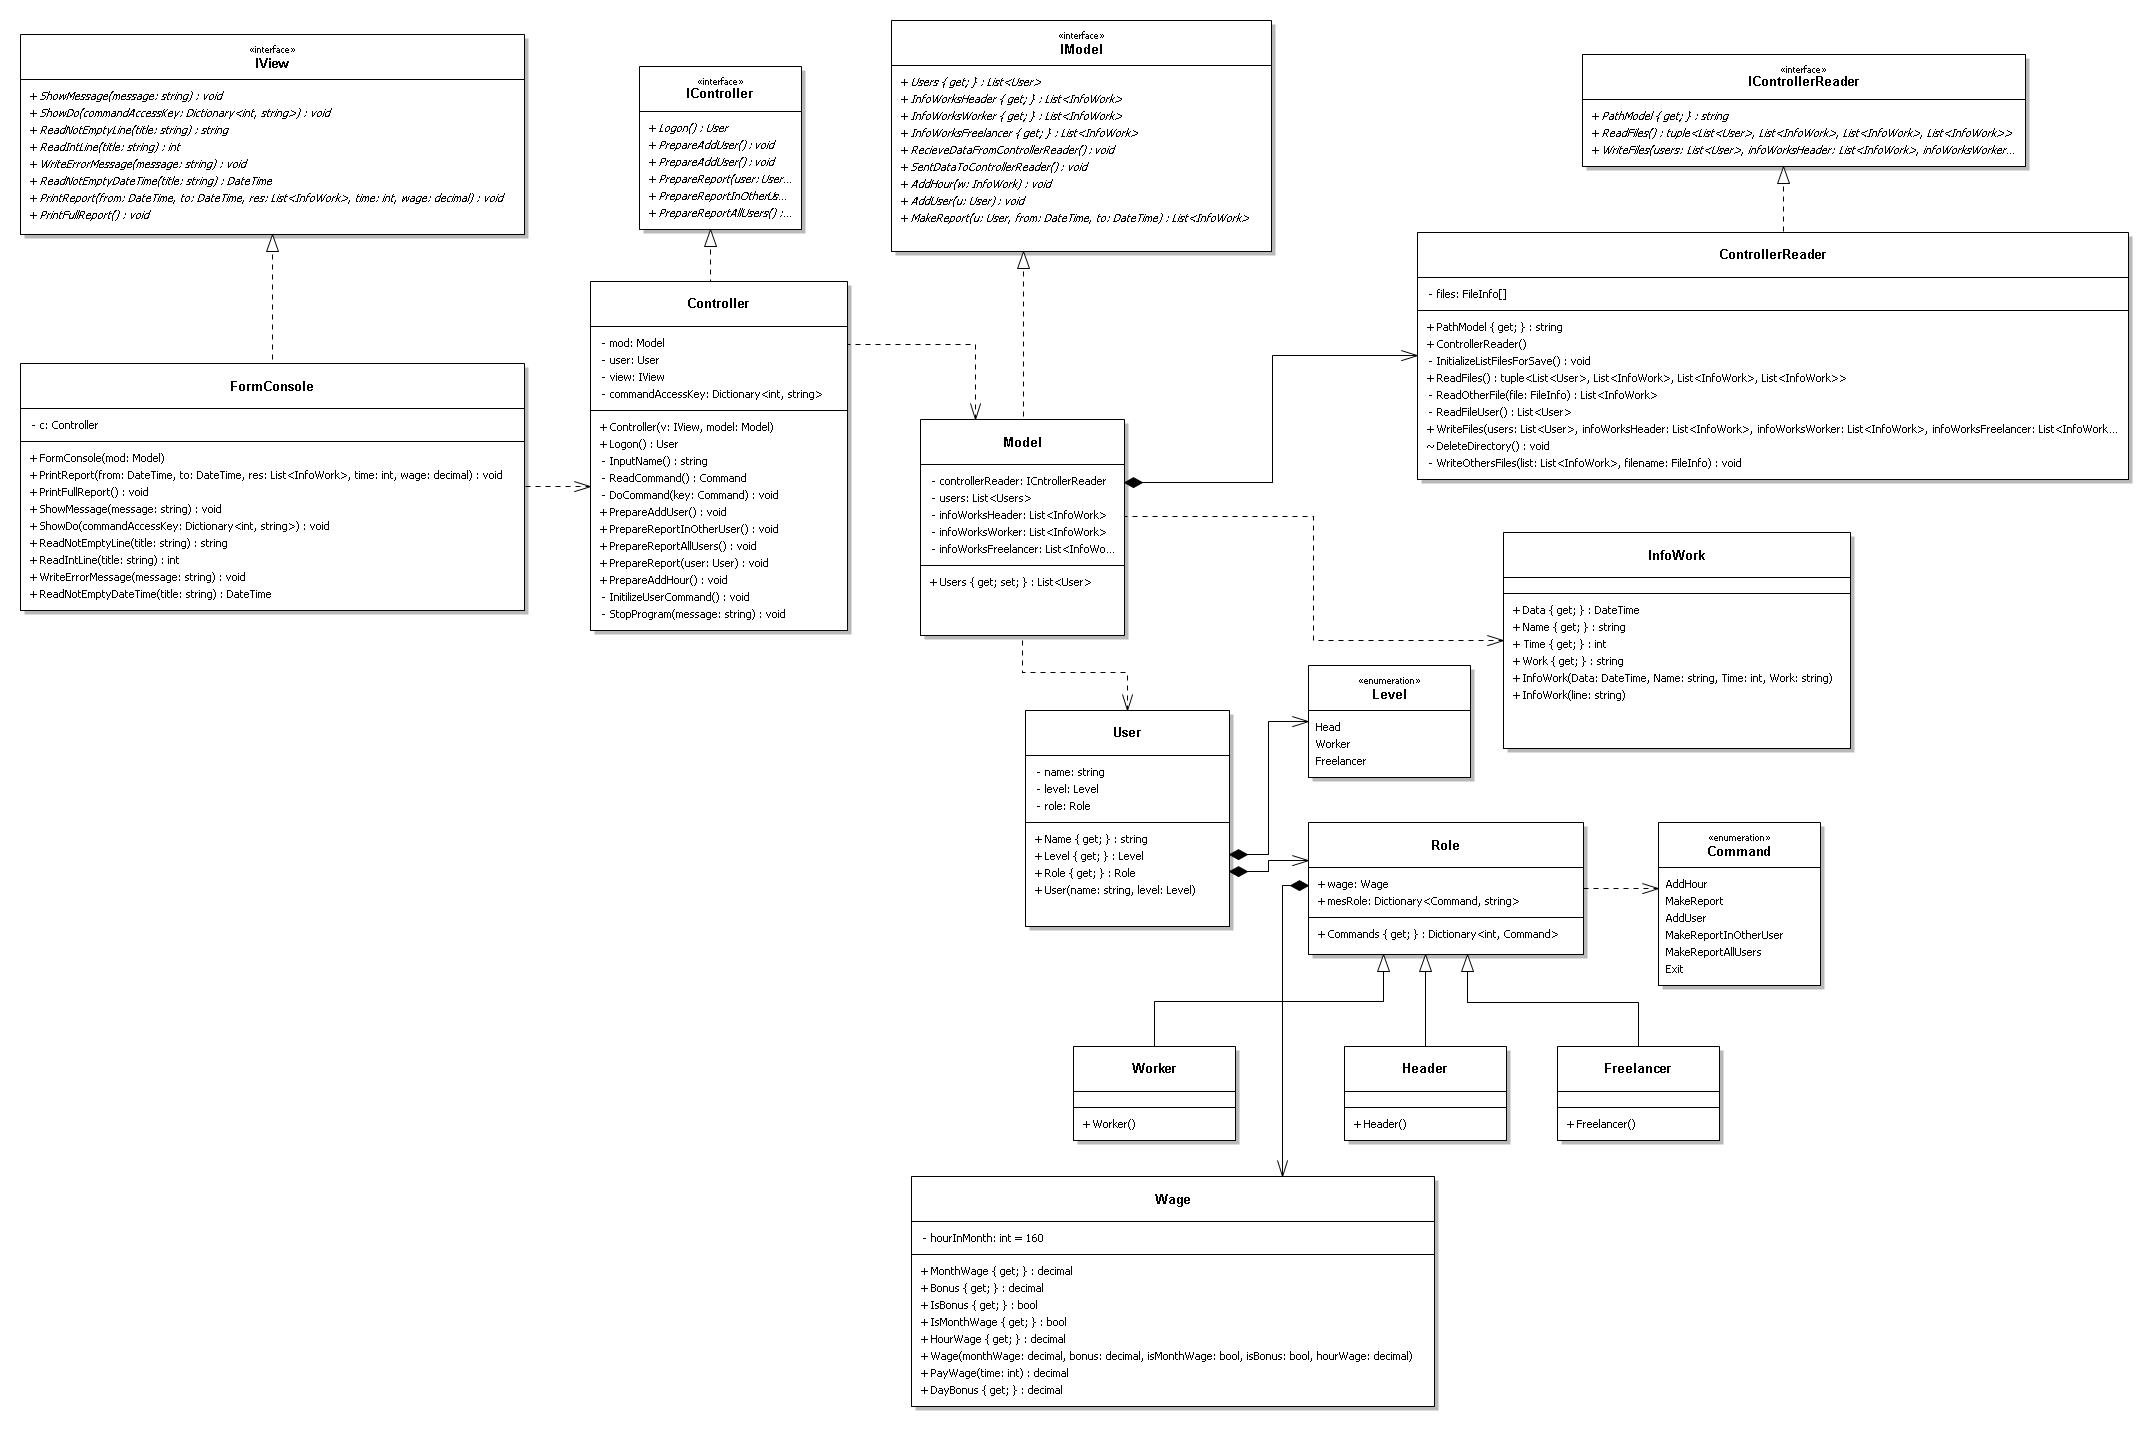
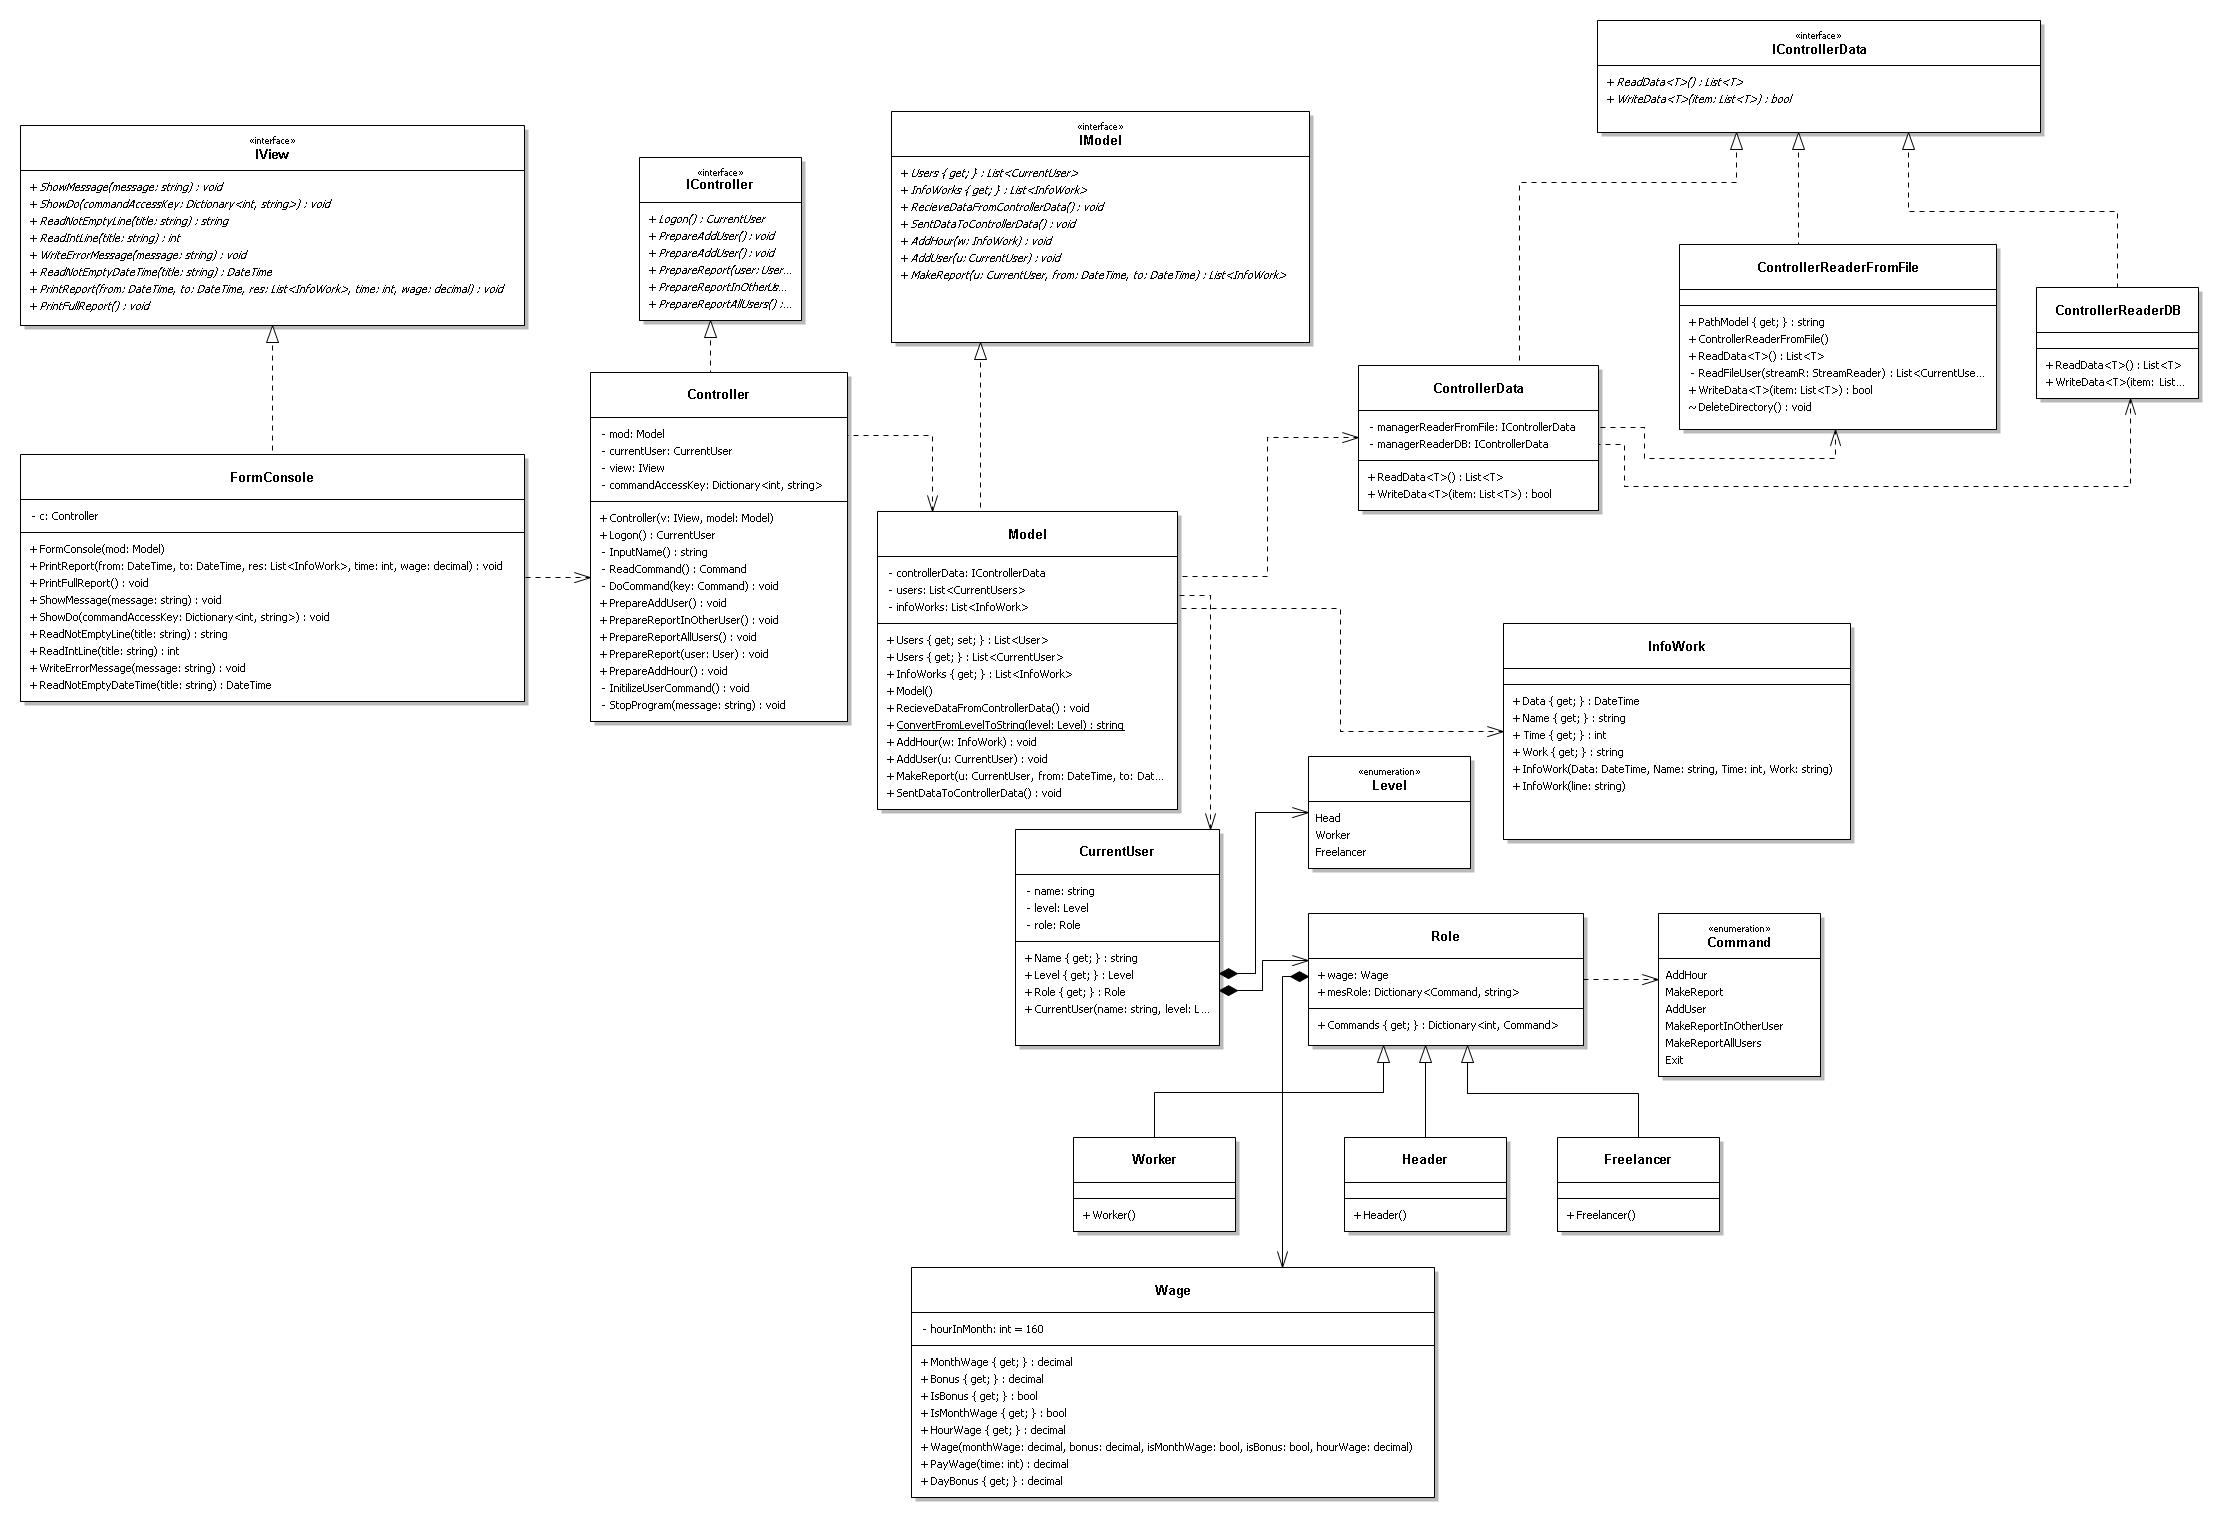
add actual description

diff --git a/Persistance/Controllers/ControllerData.cs b/Persistance/Controllers/ControllerData.cs
@@ -17,11 +17,14 @@ namespace wageсalculation.Persistance.Controllers
         {
             var dataFromFile = managerReaderFromFile.ReadData<T>();
             var dataFromDB = managerReaderDB.ReadData<T>();
-            if (dataFromFile.Count == dataFromDB.Count&& dataFromFile[0].Equals(dataFromDB[0])
-                && dataFromFile[dataFromFile.Count-1].Equals(dataFromDB.Count - 1))
+            if (dataFromFile.Count==0)
+                return dataFromFile;
+            if (dataFromFile.Count == dataFromDB.Count && dataFromFile[0].Equals(dataFromDB[0])
+                && dataFromFile[dataFromFile.Count - 1].Equals(dataFromDB.Count - 1))
                 return dataFromDB;
             else
-                throw new NotImplementedException("Разные данные в файлах и БД!");
+                //throw new NotImplementedException("Разные данные в файлах и БД!");
+                return dataFromFile;
         }
 
         public bool WriteData<T>(List<T> item) where T : class

diff --git a/Persistance/Model.cs b/Persistance/Model.cs
@@ -32,8 +32,12 @@ namespace wageсalculation.Persistance
             else
                 throw new Exception("Пользователей не существует!");
             List<InfoWork> resultInfoWork = controllerData.ReadData<InfoWork>();
-            if (resultInfoWork.Exists(i => Users.Exists(u => u.Name != i. Name)))
-             throw new Exception("В файлах работ есть неизвестные пользователи!");
+            //TO DO доделать проверку файла с работами
+            //if (resultInfoWork.Exists(i => Users.Select(u=>u.Name)
+            //                                    .Contains(i.Name)
+            //                                    )
+            //    )
+            // throw new Exception("В файлах работ есть неизвестные пользователи!");
             if (resultInfoWork != null)
                 infoWorks = resultInfoWork;
         }

diff --git a/Persistance/Controllers/Context.cs b/Persistance/Controllers/Context.cs
@@ -15,13 +15,13 @@ namespace wageсalculation.Persistance.Controllers
         public Context()
         {
             //когда используем миграции то это должно быть отключено
-            //Database.EnsureCreated();
-            
+            if (Database.EnsureCreated()) 
+                Console.WriteLine("База данных не существовала, поэтому она была создана");
         }
 
         protected override void OnConfiguring(DbContextOptionsBuilder optionsBuilder)
         {
-            optionsBuilder. UseSqlServer("Server=(localdb)\\mssqllocaldb;Database=WageCalculationDB;Trusted_Connection=True;");
+            optionsBuilder.UseSqlServer("Server=(localdb)\\mssqllocaldb;Database=WageCalculationDB;Trusted_Connection=True;");
 
         }
 

diff --git a/wageсalculation/Readme.md b/wageсalculation/Readme.md
@@ -1,8 +1,8 @@
 Приложение разработанное по техническому заданию программиста по C# Степана Берегового с канала C# c нуля
 https://docs.google.com/document/d/1kZz1ozAwNTVkIxWoyPYI_zTw6mos3CI03MyXnCxNbeM/edit
-Представляет собой консольнье приложение разработанное по MVC шаблону с ООП, с возможностью сохранения файлов
+Представляет собой консольнье приложение разработанное по MVC шаблону с ООП, с возможностью сохранения данных программы в файл и в БД
 с unit тестированием части Persistance.
 uml-диаграмма
 ![](wagecalculation.jpg)
-В дальнешем предполагается добавление возможности сохранения с сериализацией файлов, с сохранением в БД,
+В дальнешем предполагается добавление возможности сохранения с сериализацией файлов,
 с реализацией десктопной части на WPF.
